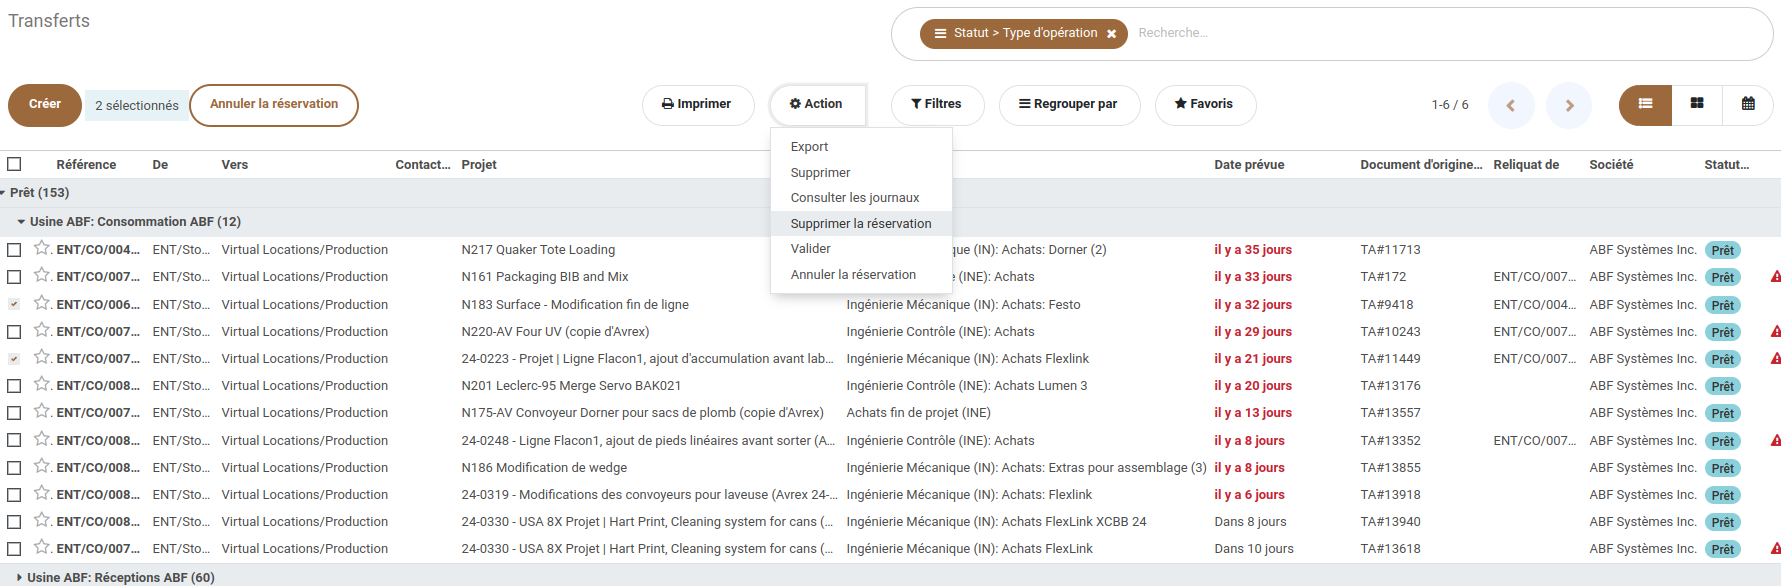
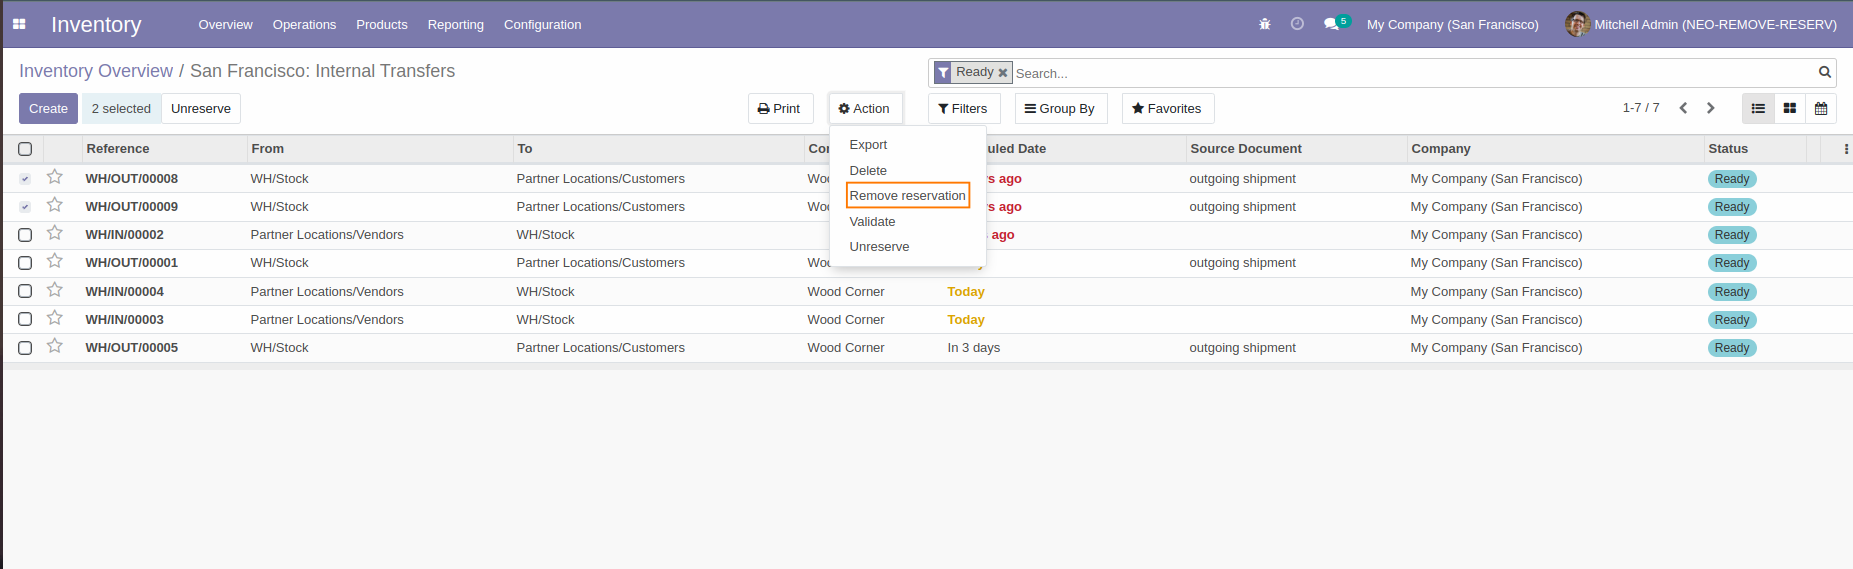
TA#70700 [14.0][IMP] stock_picking_remove reservation : add remove method in the form action menue (#196)

diff --git a/stock_picking_remove_reservation/README.rst b/stock_picking_remove_reservation/README.rst
@@ -10,11 +10,11 @@ form and unreserve move lines for the active picking.
 
 Usage
 -----
-As a user with access to transfers (stock picking), when I receive the error message:
+As a user with access stock manager , when I receive the error message:
 
 .. image:: static/description/stock_picking_error_message.png
 
-I need to click on "Desynchronize the reservation."
+I need to click on "Remove reservation"
 
 .. image:: static/description/stock_picking_select_items.png
 
